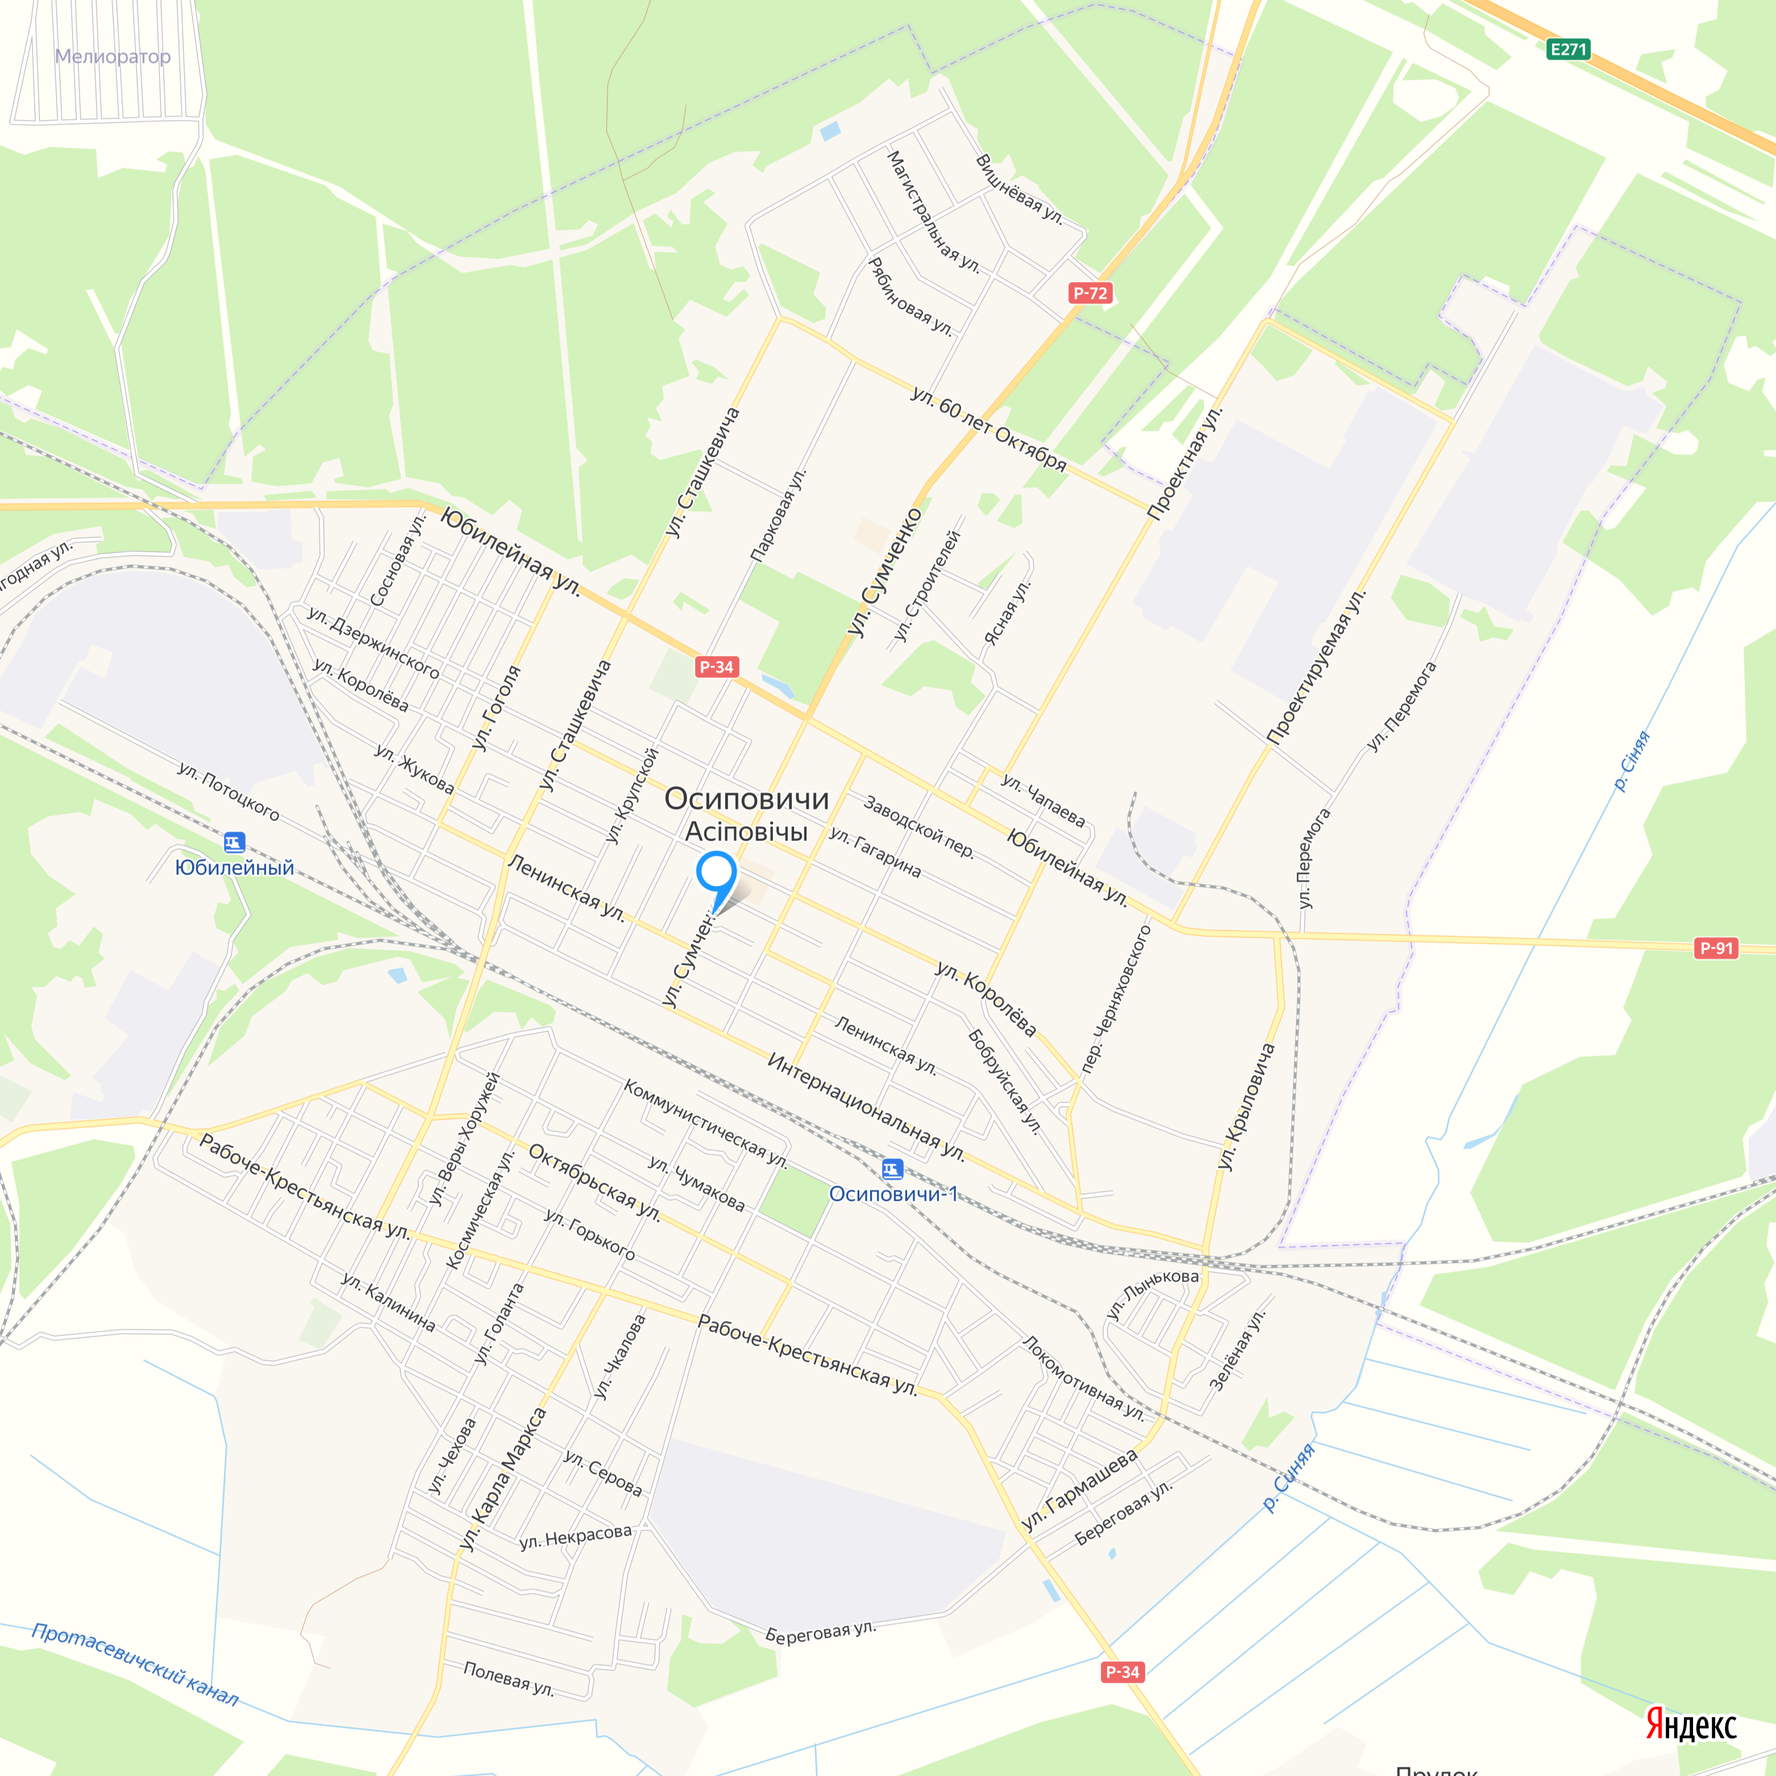
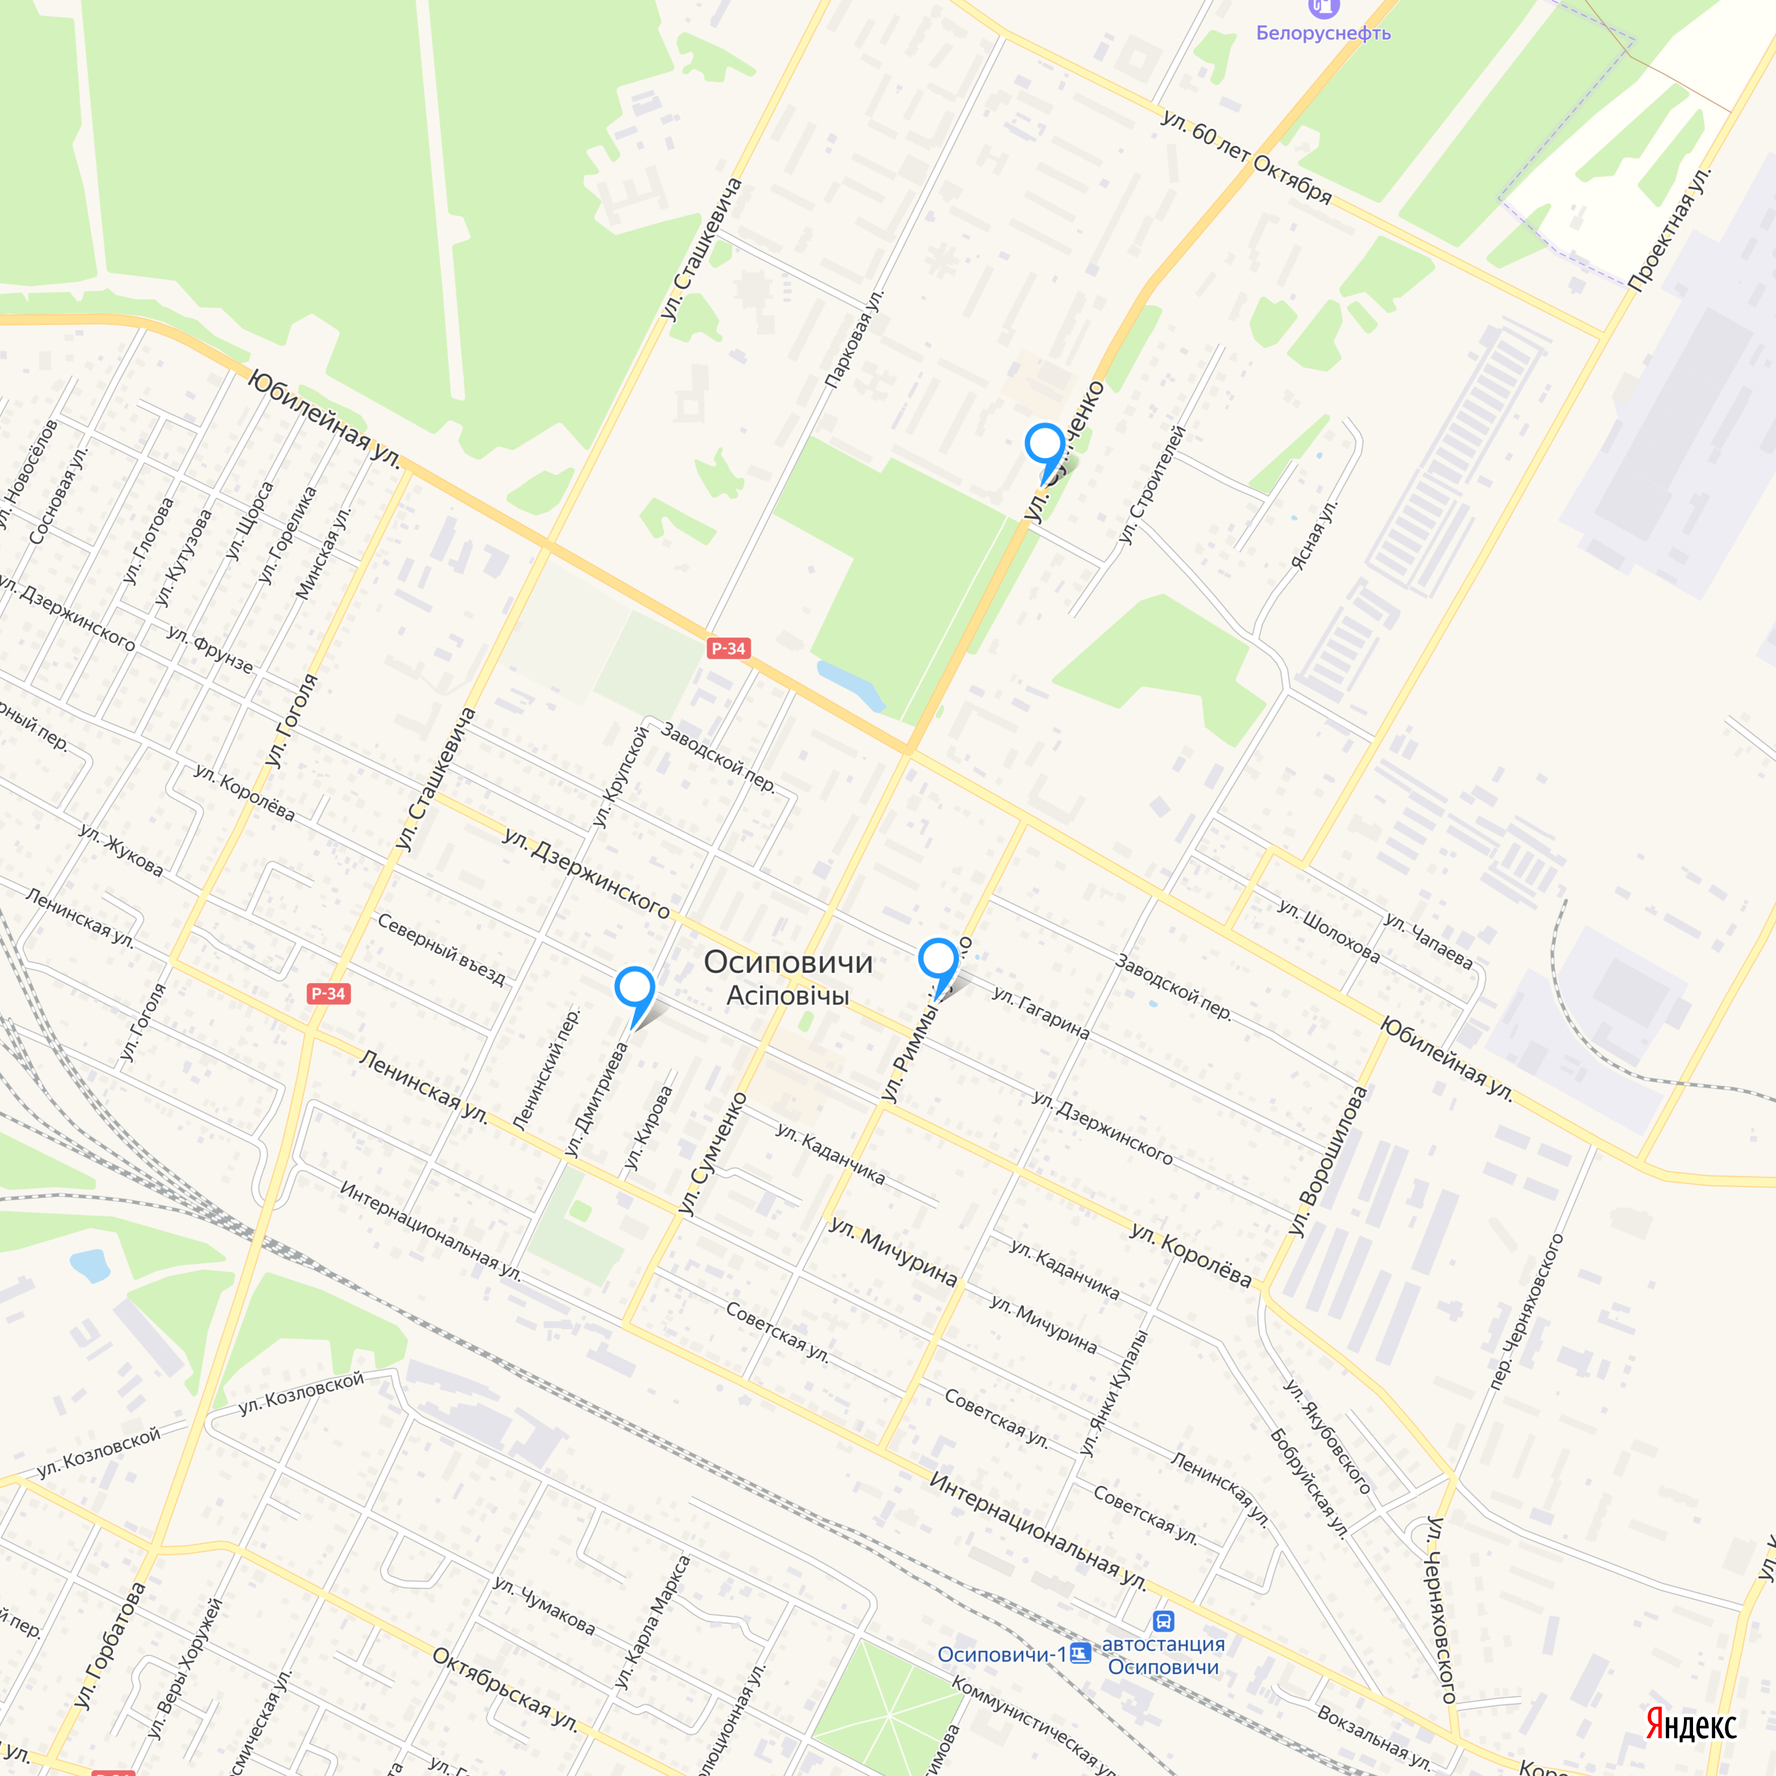
new

diff --git a/3.html b/3.html
@@ -1,0 +1,20 @@
+<!DOCTYPE html>
+<html lang="ru">
+<head>
+	<meta charset="UTF-8">
+	<title>Улицы города Осиповичи</title>
+	<link rel="stylesheet" href="css/streets.css" type="text/css">
+</head>
+<body>
+	<div class="headn">
+		<h1 id="head_text">Улицы города Осиповичи</h1>
+	</div>
+
+	<div class="main_text">
+				<h1>Римма Владимировна Кунько</h1><br>
+				<img src="images/3.jpg" alt="">
+				<div class="text">Римма Владимировна Кунько (14 декабря 1926 года — 1 июля 1944 года) — партизанка, участница партизанского движения на территории Могилёвской области Белорусской ССР в годы Великой Отечественной войны. Римма Кунько родилась 14 декабря 1926 года в городе Речица Гомельской области Белорусской ССР (ныне Белоруссия) в семье учителей. В 1934 году семья переезжает в деревню Липень Осиповичского района Могилевской области Белорусской ССР. После начала Великой Отечественной войны и оккупации немецкими войсками Белоруссии, Римма вместе с братьями Владимиром и Марком участвовала в активной борьбе с оккупантами. Они собирали разведданные для партизан группы Николая Филипповича Королёва. В июне 1942 года вслед за братьями вступила в 210-й партизанский отряд имени И. В. Сталина. Учитывая молодой возраст, Римму зачислили в хозяйственную роту, но она просилась в боевую роту. В конце 1942 года, по разрешению командования перешла в группу, расположенную в Брицаловичских лесах вблизи железной дороги (в январе 1943 года на базе этой группы создан 211-й партизанский отряд имени К. К. Рокоссовского). Римма Кунько организовала и возглавила первую группу партизанок-подрывников 1-й партизанской Осиповичской бригады, которая уничтожила 8 вражеских эшелонов. Её группа была привлечена в операцию «Рельсовая война», в ходе которой принимала участие в 12 засадах, в уничтожении 7 мостов, разгроме вражеских гарнизонов в деревни Чучье и деревни Косьё Осиповичского района. В июне 1944 года 1-я партизанская Осиповичская бригада начала операцию по соединению с наступающими частями Красной Армии. 1 июля 1944 года 211-й партизанский отряд имени К. К. Рокоссовского в районе деревни Брицаловичи встретил вражескую колонну автомашин с солдатами. В неравном бою Римма Кунько в составе взвода прикрывала отход отряда, в котором погибла. Посмертно награждена орденом Отечественной войны I степени. Похоронена в городе Осиповичи в братской могиле партизан. В 1960 году на месте братской могилы установлен памятник-скульптура «Партизан» с мемориальной доской, на которой имена пяти партизан (в том числе и Риммы Кунько), погибших в годы Великой Отечественной войны. Именем Риммы Владимировны Кунько названа улица в городе Осиповичи, а также на здании Липеньской средней школы, где она училась, установлена мемориальная доска.</div><br>
+		<strong><a href="index.html">На главную</a></strong>
+	</div>
+</body>
+</html>

diff --git a/2.html b/2.html
@@ -1,0 +1,20 @@
+<!DOCTYPE html>
+<html lang="ru">
+<head>
+	<meta charset="UTF-8">
+	<title>Улицы города Осиповичи</title>
+	<link rel="stylesheet" href="css/streets.css" type="text/css">
+</head>
+<body>
+	<div class="headn">
+		<h1 id="head_text">Улицы города Осиповичи</h1>
+	</div>
+
+	<div class="main_text">
+				<h1>Борис Михайлович Дмитриев</h1><br>
+				<img src="images/2.jpg" alt="">
+				<div class="text">Борис Михайлович Дмитриев (11 июня 1924 - 23 февраля 1944) — партизан Великой Отечественной войны, Герой Советского Союза (1944). Борис Дмитриев родился 11 июня 1924 года в Москве. Получил среднее образование в школе 243 (ныне Гимназия №1572). В 1942 году окончил спецшколу подрывников-минёров и в июле того же года был направлен в партизанскую группу под командованием Г. Н. Борозны, которая действовала в Осиповичском районе Могилёвской области, командовал в ней диверсионной группой. Борис Михайлович лично участвовал в подрыве 11 железнодорожных и 32 шоссейных мостов, 18 вражеских эшелонов, в результате чего было уничтожено 1260 гитлеровцев, 8 танков, 32 автомашины, 11 орудий, 154 тонны горючего. Его группа уничтожила в общей сложности 1400 железнодорожных рельсов, 11 железнодорожных и 32 шоссейных моста, 22 автомашины и 3 танка. 23 февраля 1944 года Дмитриев погиб в бою в деревне Каменичи Осиповичского района Могилёвской области Белорусской ССР. Похоронен в Осиповичах. Указом Президиума Верховного Совета СССР от 15 августа 1944 года за «образцовое выполнение боевых заданий командования на фронте борьбы с немецкими захватчиками и проявленные при этом отвагу и геройство» Борис Дмитриев посмертно был удостоен высокого звания Героя Советского Союза. Также был награждён орденом Ленина и медалью «Партизану Отечественной войны» 1-й степени. В честь Дмитриева названы школа и улица в Осиповичах.</div><br>
+		<strong><a href="index.html">На главную</a></strong>
+	</div>
+</body>
+</html>

diff --git a/index.html b/index.html
@@ -14,7 +14,9 @@
 
 	<div class="map">
 		<svg viewBox="0 0 3125 3125">
-			<path class="street" d="m 1259.3194,1494.2351 c -40.3553,20.4534 -52.608,47.1902 1.0727,76.1598 l -9.6541,40.7616 c 81.1744,-77.2201 48.0465,-98.6182 8.5814,-116.9214 z" info_text="Сумченко Георгий Семёнович - Родился 6 мая 1908 года в селе Бобрава (посёлок Трудовик). <br><a href='1.html' id='next'>Подробнее...</a>">
+			<path class="street" d="m 1839.3507,742.946 c -57.8746,13.55024 -37.4174,72.03678 0.7585,73.57403 l -9.4812,40.57949 c 66.4697,-78.44578 49.6889,-103.98475 8.7227,-114.15352 z" info_text="Сумченко Георгий Семёнович - Родился 6 мая 1908 года в селе Бобрава (посёлок Трудовик). <br><a href='1.html' id='next'>Подробнее...</a>"></path>
+			<path class="street" d="m 1117.4583,1699.6522 c -49.586,10.0193 -47.723,68.4907 1.3408,73.21 l -10.1904,40.2252 c 42.7109,-49.3977 68.2375,-101.2182 8.8496,-113.4352 z" info_text="Борис Михайлович Дмитриев (11 июня 1924 - 23 февраля 1944) — партизан Великой Отечественной войны, Герой Советского Союза (1944). <br><a href='2.html' id='next'>Подробнее...</a>"></path>
+			<path class="street" d="m 1650.1062,1648.5892 c -37.3199,7.947 -55.2236,60.6674 3.034,73.9533 l -10.619,40.9587 c 68.5219,-76.1408 46.0464,-108.9516 7.585,-114.912 z" info_text="Римма Владимировна Кунько (14 декабря 1926 года — 1 июля 1944 года) — партизанка, участница партизанского движения на территории Могилёвской области Белорусской ССР в годы Великой Отечественной войны. <br><a href='3.html' id='next'>Подробнее...</a>"></path>
 		</svg> 
 		<div class="info"></div>
 		<img id="map_img" src="images/map.png" alt="">

diff --git a/css/streets.css b/css/streets.css
@@ -1,0 +1,35 @@
+html, body {
+	overflow-x: hidden;
+}
+* {
+	margin: 0;
+	padding: 0;
+}
+.headn {
+	background-color: #864000;
+	height: 150px;
+	line-height: 150px;
+}
+#head_text {
+	font-size: 45px;
+	color: #ffefcf;
+	text-align: center;
+	vertical-align: middle;
+}
+h1 {
+	text-align: center;
+}
+img {
+	float: left;
+	width: 15%;
+	padding: 0px 5px 0px 5px;
+}
+.main_text {
+	padding-top: 5px;
+	vertical-align: top;
+}
+a {
+	text-decoration: none;
+	font-size: 20px;
+	color: #864000;
+}

diff --git a/1.html b/1.html
@@ -3,9 +3,7 @@
 <head>
 	<meta charset="UTF-8">
 	<title>Улицы города Осиповичи</title>
-	<link rel="stylesheet" href="css/1.css" type="text/css">
-	<script type="text/javascript" src="scripts/jquery-3.5.1.min.js"></script>
-	<script type="text/javascript" src="scripts/1.js"></script>
+	<link rel="stylesheet" href="css/streets.css" type="text/css">
 </head>
 <body>
 	<div class="headn">
